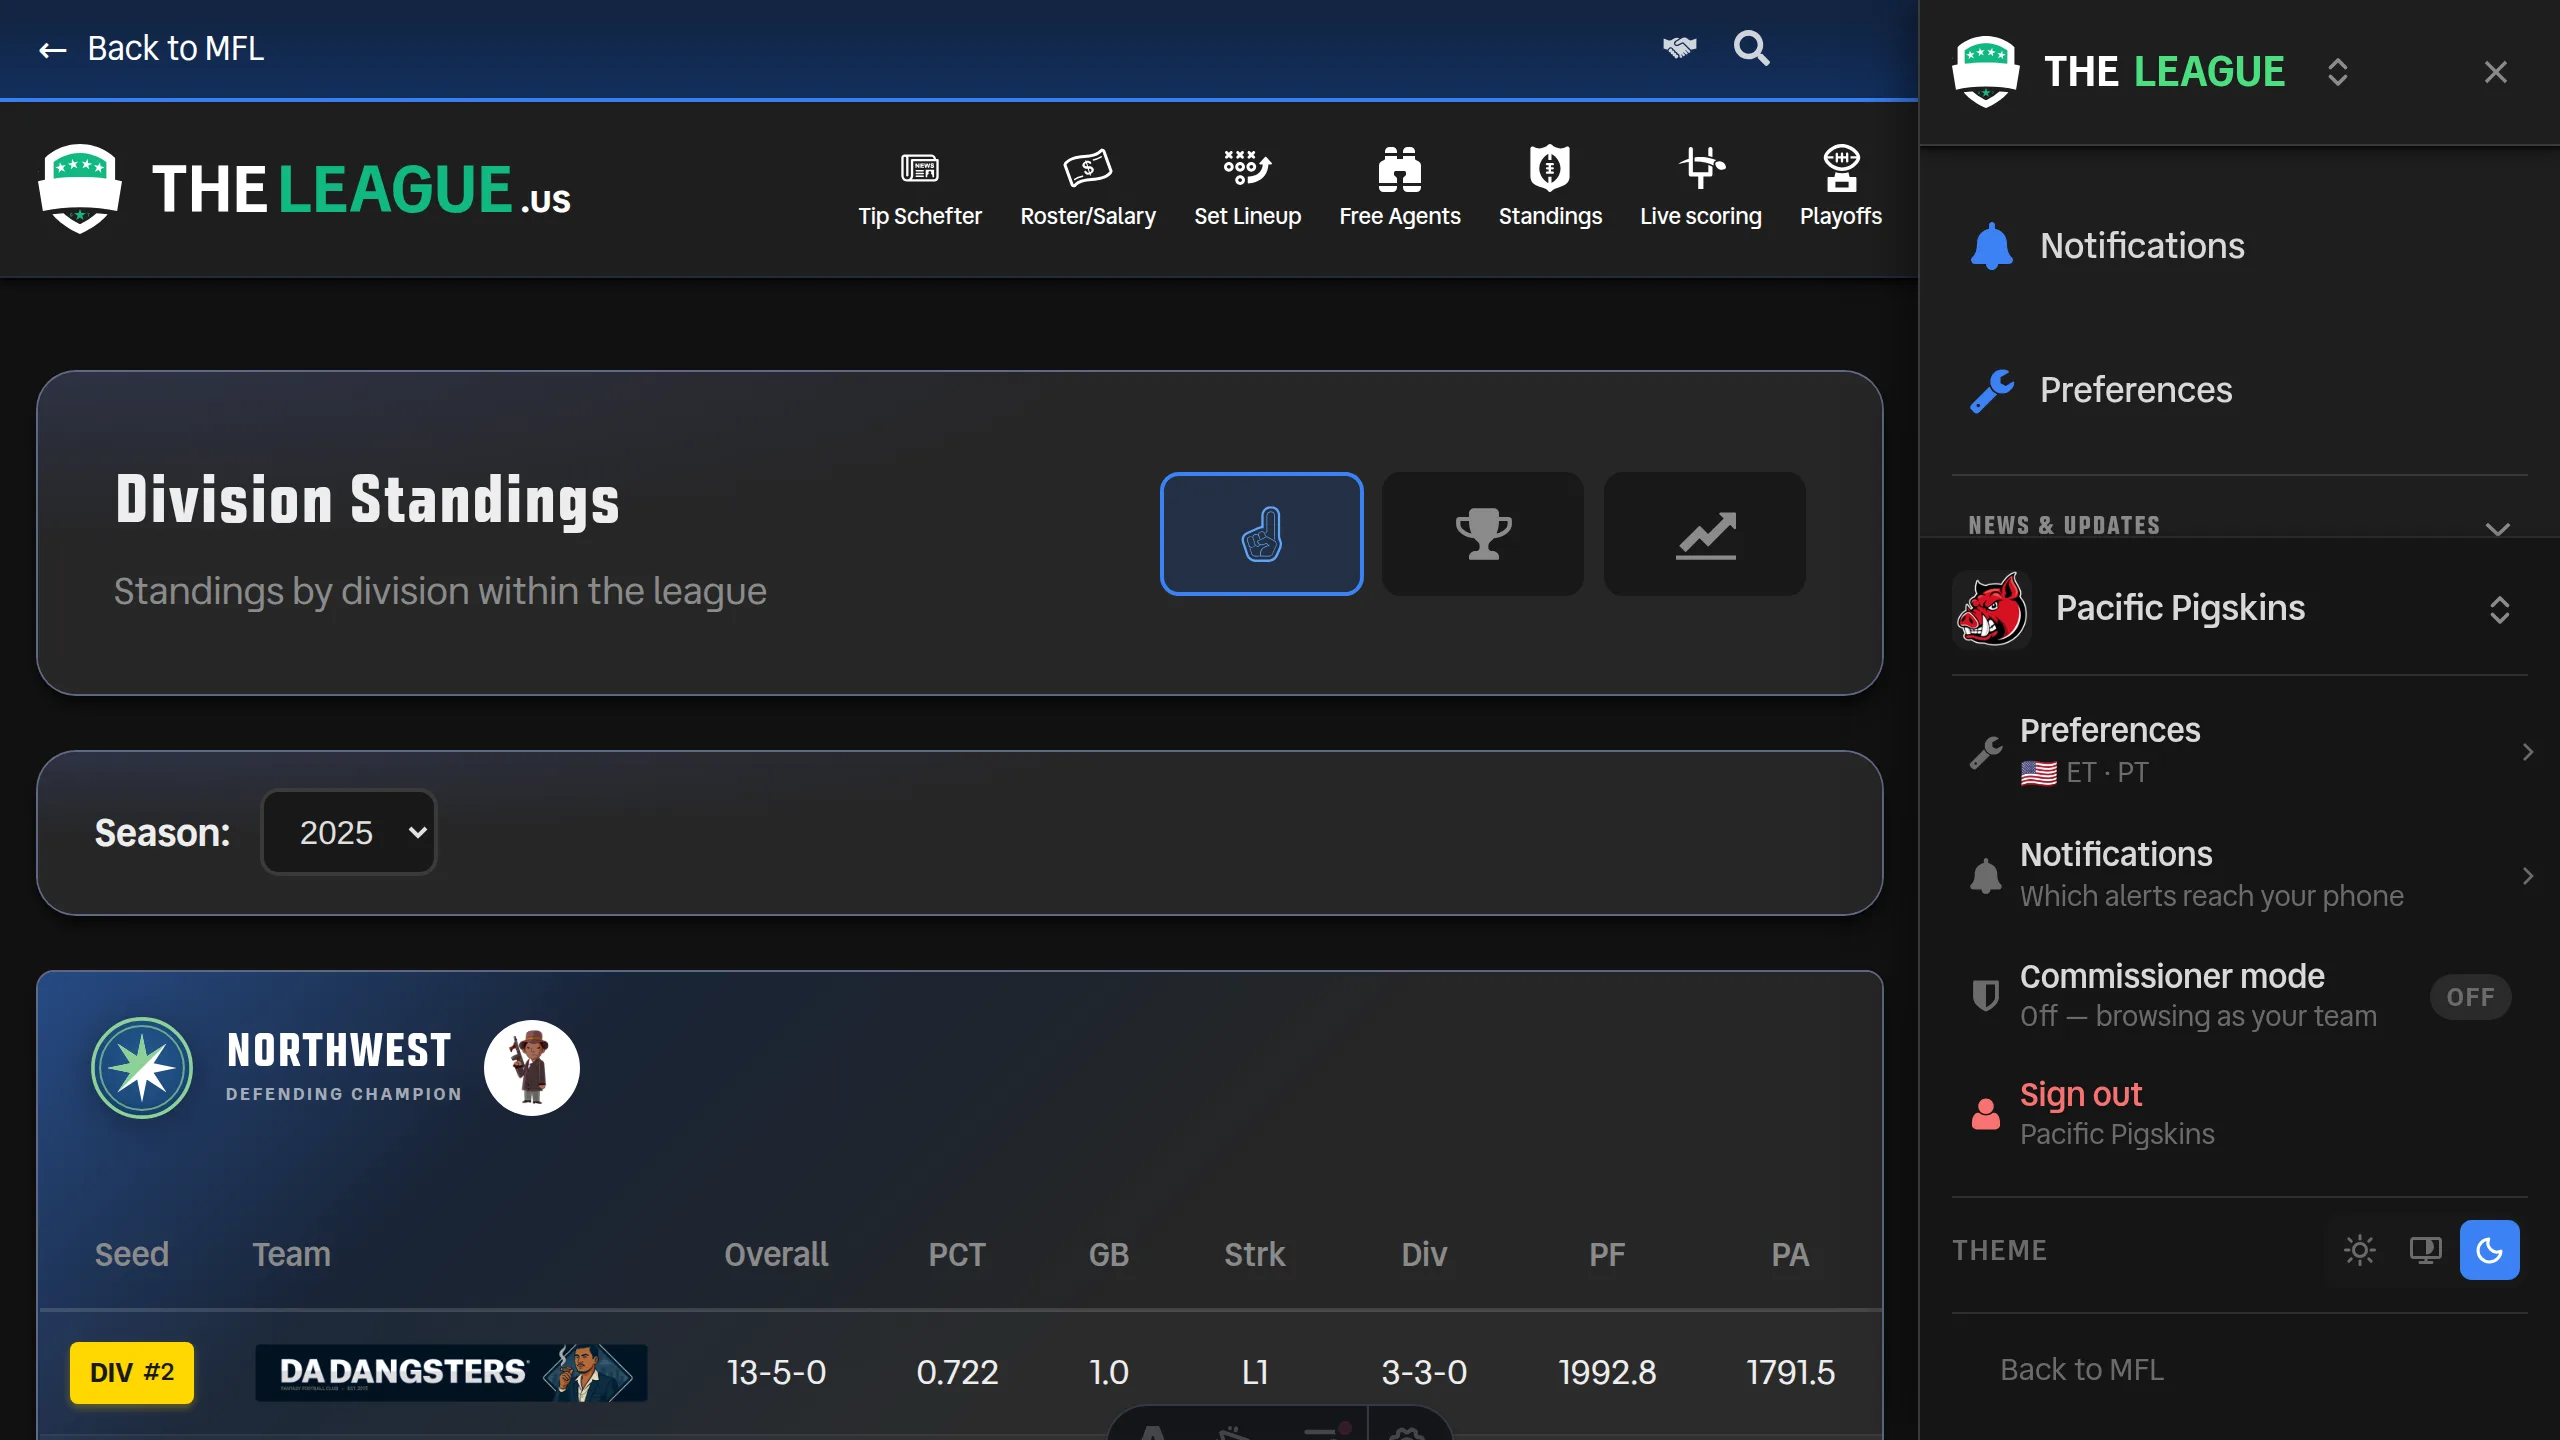
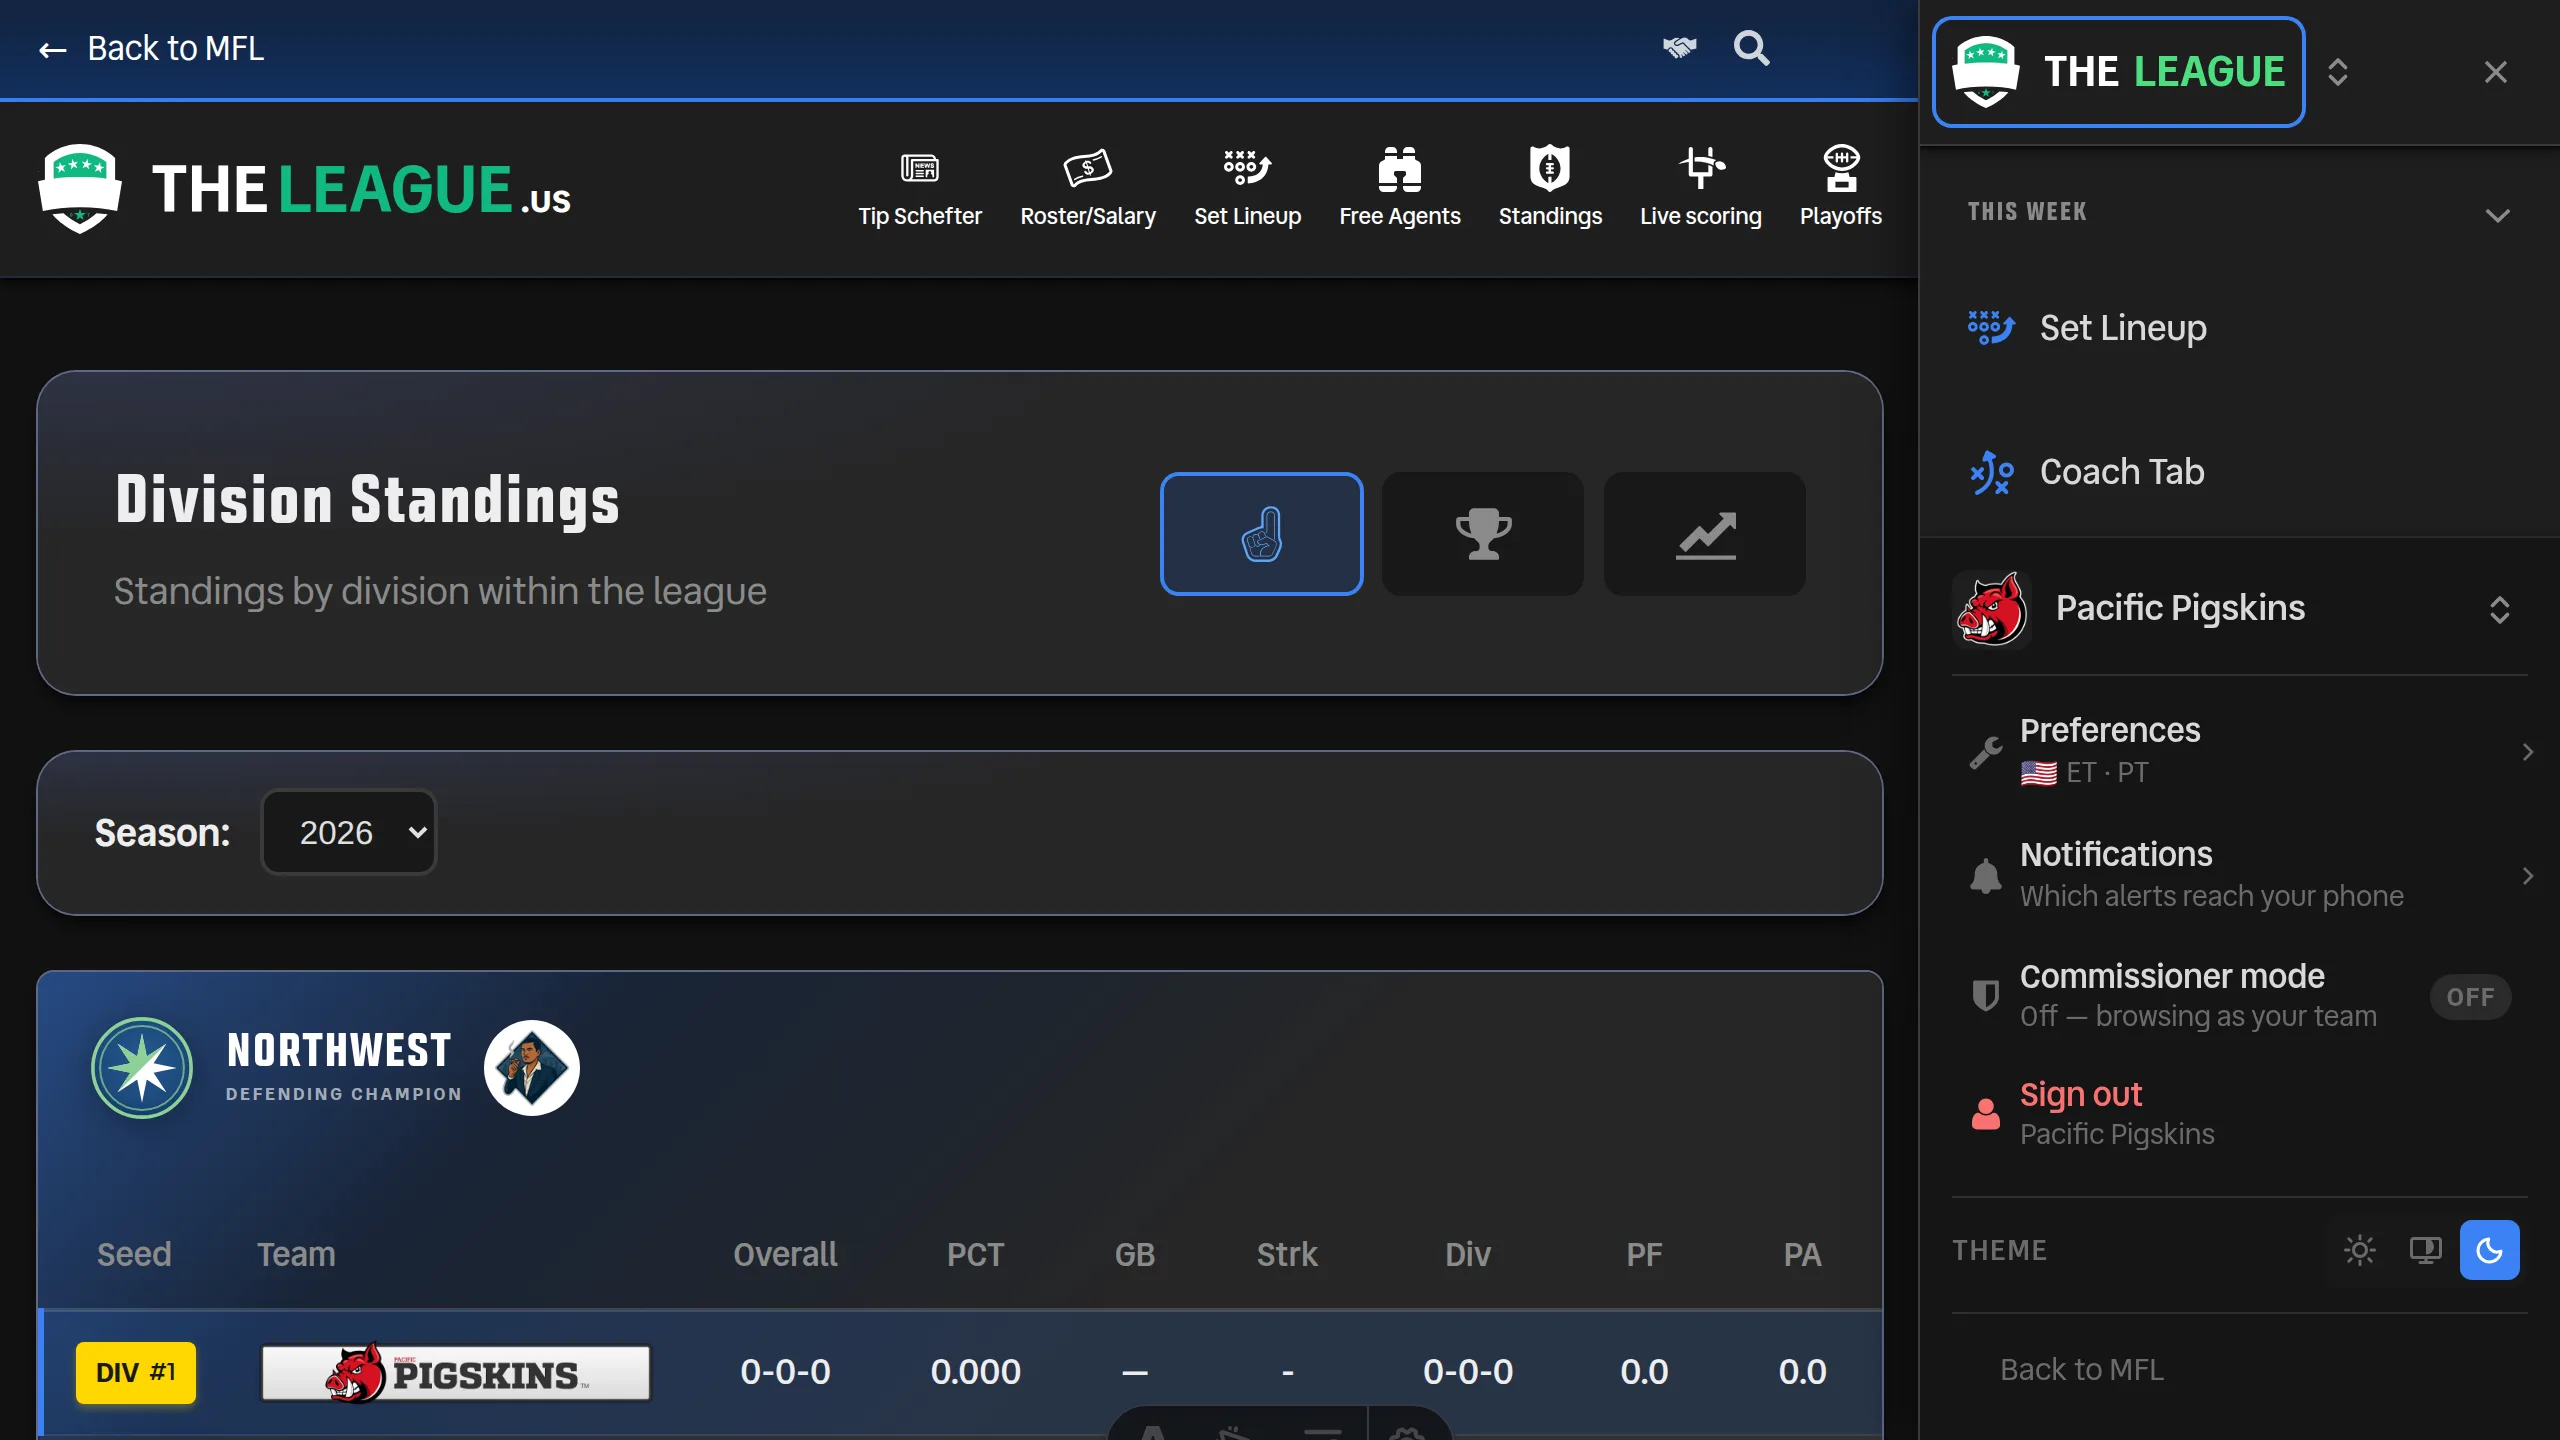
Move Notifications and Preferences out of the pinned nav links
They sat at the top of the drawer, above the league's own pages, saying the
same two words the footer's account menu now says ~700px lower. The drawer
opens on league navigation; a viewer's own settings live with their name at
the bottom. `pinnedLinks` is now empty.

The pin removal is only safe because something else carries each link:

- /notifications bounces a signed-out visitor to login, so losing its pin
  costs that visitor nothing — the account menu is authenticated anyway.
- /preferences has NO auth gate and works signed out by design, and a
  signed-out visitor has no team row and therefore no account menu. It gets
  its own row beside the verify prompt, printing the same clock line.

`pinnedLinks` stays in the schema at zero entries: phase order means no
section link can hold "first in the drawer", so a future must-be-first link
still belongs there. tests/nav-pinned-links.test.ts keeps the structural
checks for that day and now also pins the footer pairing above.

What's New screenshots re-captured (the old pair showed the pinned links).

Claude-Session: https://claude.ai/code/session_01HL1tzeyFjYUvcmXYfFQA9K

diff --git a/tests/nav-pinned-links.test.ts b/tests/nav-pinned-links.test.ts
@@ -10,25 +10,49 @@ import type { NavLink } from '../src/types/nav';
  * Section order flips between phases (`phaseOrder`: This Week leads in-season,
  * News & Updates leads off-season), so a link that must always be FIRST cannot
  * live inside a section. `nav-config.json#pinnedLinks` renders flat above every
- * section instead. Notifications is that link — putting it back in a section
- * silently demotes it for half the calendar.
+ * section for exactly that case.
  *
- * Also pins the removal of the Add/Drop link: adds and drops go through the
- * site's own player pages, not a hand-off to MFL's add_drop screen.
+ * Nothing is pinned today. Notifications and Preferences were the two, and
+ * they moved into the nav FOOTER's account menu (`NavFooter.astro`, under the
+ * team name) in Sep 2026: a viewer's own settings belong with their identity,
+ * not competing with league navigation, and carrying both places meant the
+ * drawer said the same two words twice. The mechanism stays because the reason
+ * for it does — a future must-be-first link goes here, not into a section.
+ *
+ * What this suite still guards:
+ * - a link is never pinned AND in a section (it would render twice)
+ * - the pinned list renders before the sections, so pinning still means first
+ * - the two moved links keep a home in the footer instead
+ * - the Add/Drop link stays gone: adds and drops go through the site's own
+ *   player pages, not a hand-off to MFL's add_drop screen
  */
 
 const REPO_ROOT = process.cwd();
 const NAV_LINKS_COMPONENT = path.join(REPO_ROOT, 'src/components/nav/NavLinks.astro');
+const NAV_FOOTER_COMPONENT = path.join(REPO_ROOT, 'src/components/nav/NavFooter.astro');
 
 const pinnedLinks = (navConfig as { pinnedLinks?: NavLink[] }).pinnedLinks ?? [];
 const sections = navConfig.sections as Array<{ id: string; links: NavLink[] }>;
 
 describe('Nav pinned links', () => {
-  it('pins Notifications as the first link in the drawer', () => {
-    expect(pinnedLinks[0]?.id, 'Notifications must be the first pinned nav link').toBe(
-      'notifications'
-    );
-    expect(pinnedLinks[0]?.path).toBe('/notifications');
+  it('keeps Notifications and Preferences reachable from the footer account menu', () => {
+    const pinnedIds = pinnedLinks.map((link) => link.id);
+    expect(
+      pinnedIds,
+      'Notifications and Preferences live in the footer account menu now — pinning them again duplicates them'
+    ).not.toContain('notifications');
+    expect(pinnedIds).not.toContain('preferences');
+
+    // Removing the pinned pair only works because the footer carries them.
+    const footer = readFileSync(NAV_FOOTER_COMPONENT, 'utf8');
+    expect(footer, 'NavFooter must link /preferences').toMatch(/\/preferences`/);
+    expect(footer, 'NavFooter must link /notifications').toMatch(/\/notifications`/);
+    // /preferences has no auth gate, so it must survive being signed out —
+    // /notifications bounces to login and deliberately does not.
+    expect(
+      footer,
+      'A signed-out visitor has no account menu; /preferences still needs a row'
+    ).toMatch(/nav-footer__account--signed-out/);
   });
 
   it('keeps pinned links out of the sections that reorder by phase', () => {

diff --git a/docs/claude/insights/features/nav-redesign.md b/docs/claude/insights/features/nav-redesign.md
@@ -983,3 +983,47 @@ lists it.
 **Rule:** "put it in / take it out of the footer" means `footer-config.ts` plus a
 `page-directory.json` id. Touch `nav-config.json`'s `footerLinks` only when the
 thing genuinely belongs at the bottom of the open drawer.
+
+---
+
+## 2026-09-07 - The Footer Account Menu, and Why `pinnedLinks` Is Now Empty
+
+**Context:** the footer's team row carried a chevron that toggled commissioner
+mode and was rendered for commissioners only — no label, no `aria-expanded`
+target, nothing announcing what it did. Meanwhile the two settings that belong
+to the VIEWER rather than the league (Notifications, Preferences) sat pinned at
+the top of the drawer, ~700px above the block that already showed who you are.
+
+**The change.** That chevron became an account disclosure every signed-in owner
+gets, opening four labelled rows in the footer: Preferences (printing the
+viewer's chosen clock), Notifications, Commissioner mode (a labelled row with an
+ON/OFF pill), and Sign out — which the site had an endpoint for and no button.
+`pinnedLinks` is now `[]`.
+
+Four things worth carrying forward:
+
+- **The nav reads the clock cookie by hand.** `viewer-preferences-page.ts` is
+  route-only for two independent reasons and the footer trips both:
+  `resolveViewerPreferences` WRITES cookies (`ResponseSentError` from a
+  component — a blank page on every route), and `readViewerClock` reads Redis
+  whenever the device has no cookie, which in a component the whole site renders
+  is a round-trip per page view rather than the once-per-device the mirror was
+  designed for. `Astro.cookies.get(COUNTRY_COOKIE/ZONE_COOKIE)` +
+  `parseViewerPreferences` is side-effect free and exact: the cookies are only
+  ever written by an explicit choice, so their presence IS the `explicit`
+  signal, and their absence prints "League time (PT)" — the pre-preference floor.
+- **Removing a pinned link is only safe if something else carries it.**
+  `/notifications` bounces a signed-out visitor to login, so losing its pin
+  costs that visitor nothing. `/preferences` has NO auth gate and works
+  signed out by design — and a signed-out visitor has no team row, therefore no
+  account menu. It needs its own row beside the verify prompt, or the pin
+  removal quietly strands the one setting that was built to work without an
+  account. `tests/nav-pinned-links.test.ts` now pins that pairing.
+- **Menu rows are registry-gated, not league-literal'd.** Best-ball publishes
+  neither page; `viewerPreferences` / `pushNotifications` in `leagues-data.mjs`
+  decide, so adding a league can't accidentally ship it two rows that 404.
+- **`pinnedLinks` stays in the schema at zero entries.** The reason it exists
+  is unchanged — phase order means no section link can hold "first in the
+  drawer" — so a future must-be-first link goes there rather than into a
+  section. The guard suite kept its structural checks (never pinned AND
+  sectioned, pinned `<ul>` before `nav-links__list`) for exactly that day.

diff --git a/docs/claude/rules/viewer-preferences.md b/docs/claude/rules/viewer-preferences.md
@@ -18,10 +18,12 @@ routes. Guards: `tests/viewer-preferences.test.ts`,
 time, the waiver window on both `/players` pages and in the claim modal, the
 owners-poll deadline, the mock-draft lobby, the AFL keeper-analysis freshness
 stamp, the waiver-priority footnote, and the game-day matchup heroes'
-channels. `/preferences` is pinned in the nav beside Notifications, and the
-nav drawer's account menu (`NavFooter.astro`, under the team name) PRINTS the
-chosen clock — the one place a viewer can see what they picked without opening
-the page.
+channels. `/preferences` reaches the nav through the drawer's account menu
+(`NavFooter.astro`, under the team name), which also PRINTS the chosen clock —
+the one place a viewer sees what they picked without opening the page. It was
+pinned at the TOP of the drawer until Sep 2026; that pin is gone, so the footer
+is now the only nav route to it, and the signed-out row there is not optional
+(the page has no auth gate, and a signed-out visitor has no account menu).
 
 ## The rules
 
